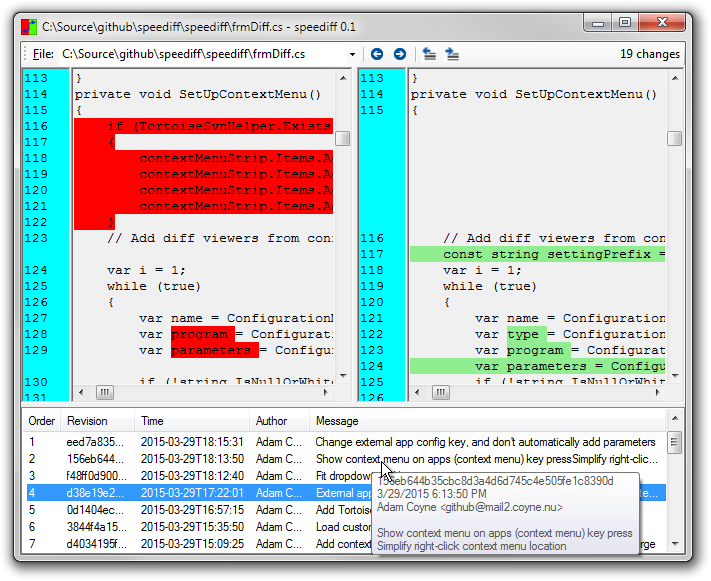
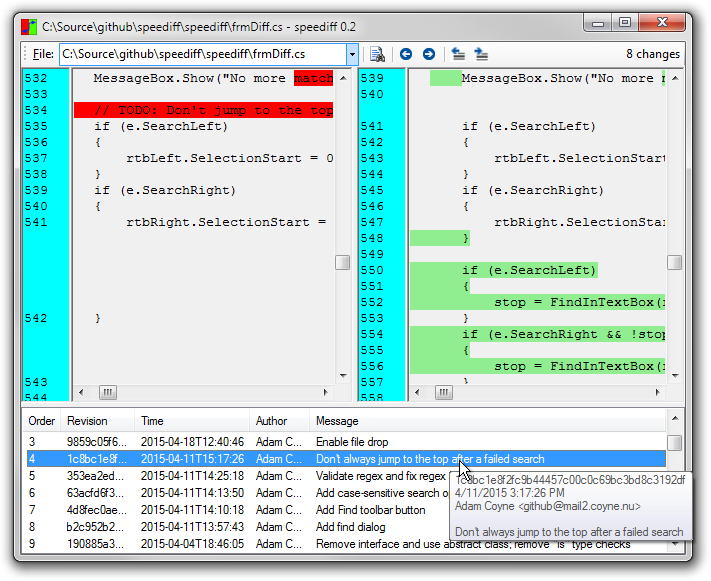
Update readme and screenshot

diff --git a/README.md b/README.md
@@ -5,7 +5,15 @@ speediff is a C# WinForms app that enables you to quickly compare past Git or SV
 
 It is inspired by [SVN Time Lapse View][1], a useful but long-abandoned Java application (which was in turn inspired by Perforce's time-lapse view).
 
--Adam Coyne
+Features:
+
+* Git and SVN support
+* Keyboard-friendly navigation
+* TortoiseSVN Repo Browser, Log, Blame, and Diff (if installed)
+* Custom external app support (examples are in speediff.exe.config)
+
+
+-Adam Coyne <github@mail2.coyne.nu>
 
 ![Screenshot](https://github.com/bhank/speediff/raw/master/speediff-screenshot.png)
 
